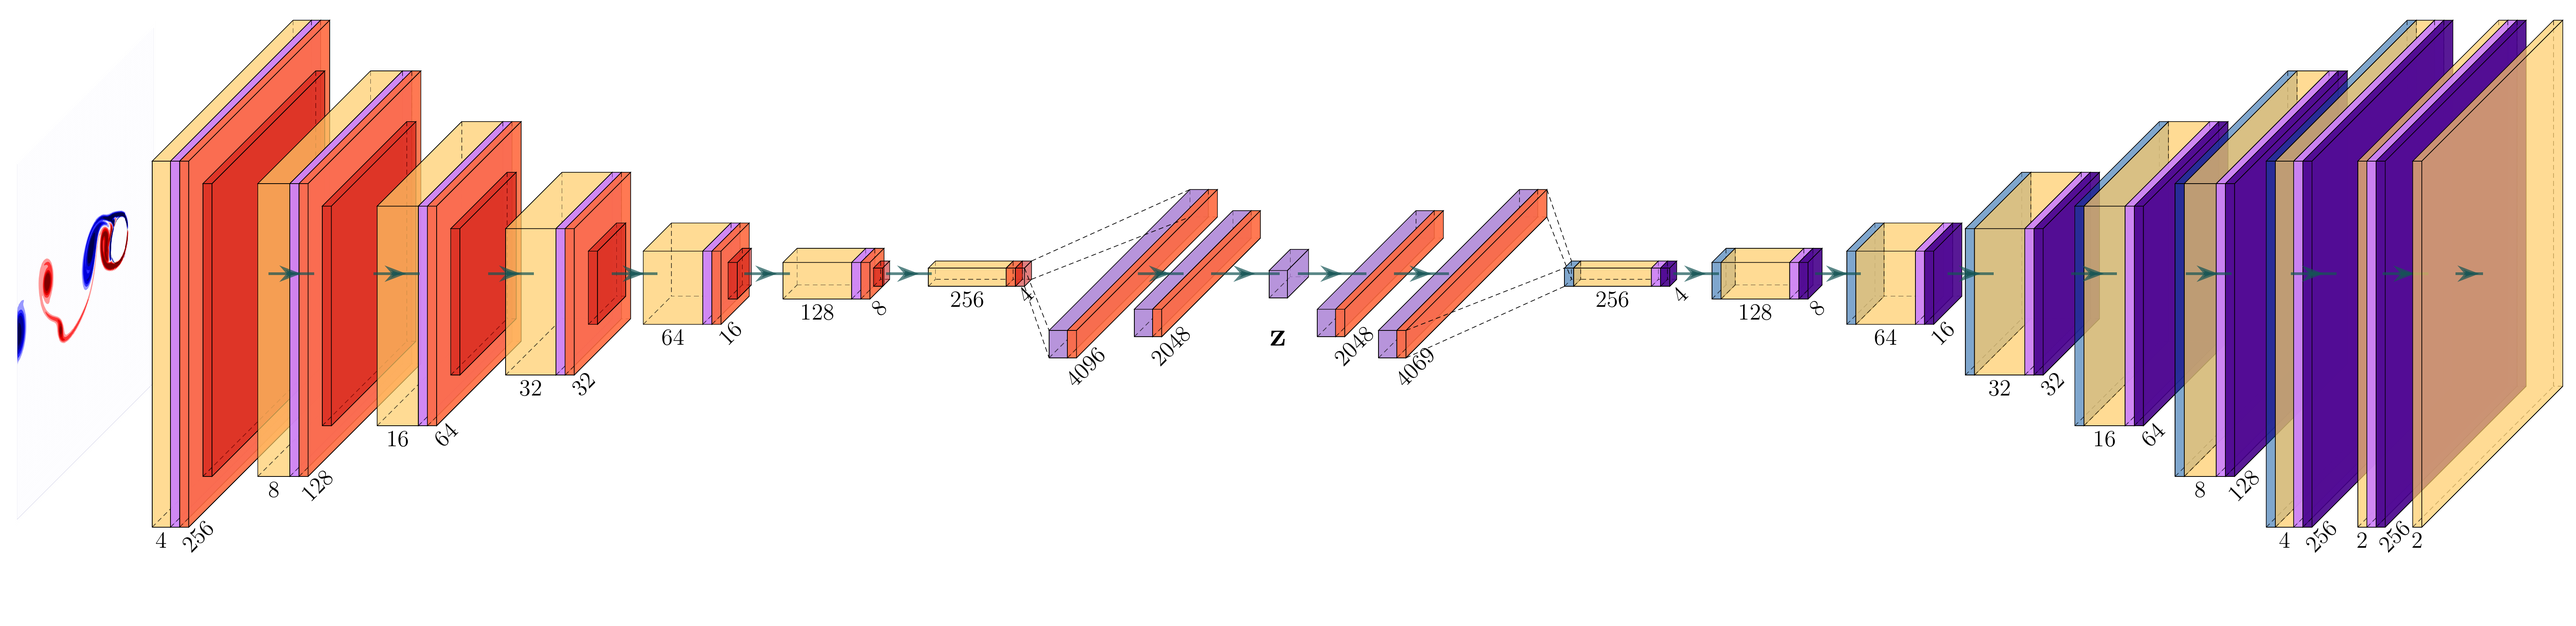
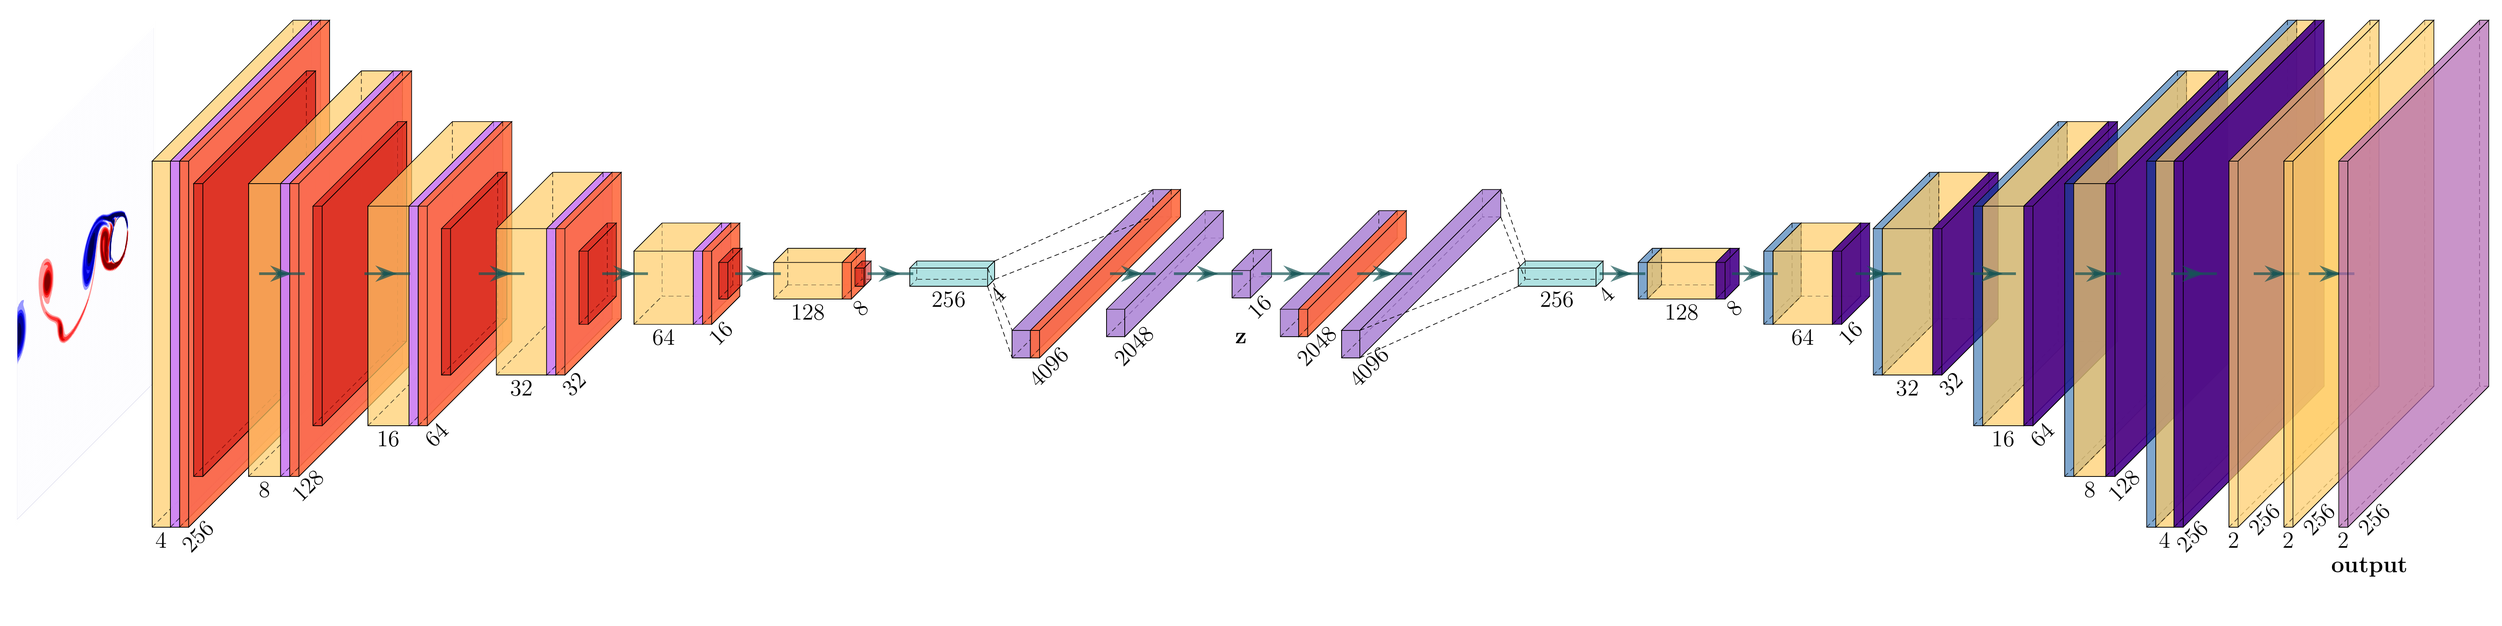
Updates from Overleaf

Changed region(s): [[0.0, 0.0309, 0.9957, 0.8663], [0.9334, 0.8973, 0.9646, 0.9282]]

diff --git a/mainmatter/3. Methodology.tex b/mainmatter/3. Methodology.tex
@@ -280,9 +280,9 @@ Since $\boldsymbol{\mu_0}$ is unity in the fluid and zero inside the solid, its 
 \section{Autoencoder}
 \label{sect: AE}
 
-To harness the Neural ODE's predictive capabilities, we need a way to reduce the dimensionality of our dynamical system. This is the role the autoencoder encompasses: it provides a way to produce a compact, non-linear representation of the instantaneous flow state on which the latent dynamics can subsequently be learned. A convolutional Autoencoder is well-suited to this task, as its filters are designed to extract local spatial features from grid-structured fields, while the implementation of non-linear activation functions allows it to represent the flow states on a curved low-dimensional surface. 
+To harness the Neural ODE's predictive capabilities, we need a way to reduce the dimensionality of our dynamical system. This is the role the autoencoder encompasses: it provides a way to produce a compact, non-linear representation of the instantaneous flow state on which the latent dynamics can subsequently be learned. A convolutional Autoencoder is well-suited to this task, as its filters are designed to extract local spatial features from grid-structured fields, while the implementation of non-linear activation functions allows it to represent the flow states on a curved low-dimensional manifold. 
 
-The autoencoder learns an efficient reduced-order representation of the instantaneous full-order flow state. The AE consists of two parts, namely an encoder and a decoder. The encoder $\varphi_\theta: \mathbb{R}^{N_x \times N_y \times C_{in}} \to \mathbb{R}^{N_z}$, maps the instantaneous full-order augmented input to a latent state vector $\mathbf{z} = \varphi_\theta(\mathbf{x}_\text{in})$, with small dimensions such that $N_z \ll N_x N_y C_\text{in}$. The decoder $\psi_\theta : \mathbb{R}^d \to \mathbb{R}^{N_x \times N_y \times N_u}$ then maps this latent state vector back to physical space $\hat{\mathbf{u}} = \psi_\theta(\mathbf{z})$ with the following goal.
+The autoencoder learns an efficient reduced-order representation of the instantaneous full-order flow state. The AE consists of two parts, namely an encoder and a decoder. The encoder $\varphi_\theta: \mathbb{R}^{N_x \times N_y \times C_{in}} \to \mathbb{R}^{N_z}$, maps the instantaneous full-order augmented input to a latent state vector $\mathbf{z} = \varphi_\theta(\mathbf{x}_\text{in})$, with small dimensions such that $N_z \ll N_x N_y C_\text{in}$. The decoder $\psi_\theta : \mathbb{R}^z \to \mathbb{R}^{N_x \times N_y \times N_u}$ then maps this latent state vector back to physical space $\hat{\mathbf{u}} = \psi_\theta(\mathbf{z})$ with the following goal.
 
 
 \begin{equation}\label{eq: AE_goal}
@@ -292,32 +292,180 @@ The autoencoder learns an efficient reduced-order representation of the instanta
 \end{equation}
 
 
-\begin{figure}[H]
-    \centering
-    \includegraphics[width=\linewidth]{figures/Methodology/autoencoder.png}
-    \caption{Schematic view of the CNN-AE architecture. The colour coding for each layer is:
-  2D-convolution: \colorbox{\ConvColor}{\phantom{x}},
-  Batch normalization: \colorbox{\BnColor}{\phantom{x}}
-  ReLU activation: \colorbox{\ReluColor}{\phantom{x}},
-  max pooling: \colorbox{\PoolColor}{\phantom{x}},
-  fully-connected layer: \colorbox{\FcColor}{\phantom{x}},
-  GELU activation: \colorbox{\GeluColor}{\phantom{x}},
-  upsampling: \colorbox{\UnpoolColor}{\phantom{x}}} 
-    \label{fig: AE}
-\end{figure}
-
 % Encoding 256×256×4 flow fields to a 16-dimensional latent space.
 
 \subsection{Architecture}
 \label{sect: AEarch}
 
-% Convolutional encoder: n_conv=6 layers, C_base=8 starting channels, pool_kernel=2 (halving spatial resolution each layer).
-% Dense bottleneck: n_dense=2 layers, latent_dim=16.
-% Symmetric decoder mirrors the encoder.
-% Include a table or diagram of layer sizes and parameter counts.
+The encoder and decoder are constructed parametrically from a small set of hyperparameters: the number of convolutional blocks $n_\text{conv}$, the number of dense layers $n_\text{dense}$, the base channel count $C_\text{base}$, the convolution kernel size $k$, the pooling kernel size $p$, and the latent dimension $N_z$. Which are all summarised in Table~\ref{tab: ae_hyperparameters}.
+
+\begin{table}[H]
+    \centering
+    \begin{tabular}{@{}llc@{}}
+        \toprule
+        Symbol & Description  \\
+        \midrule
+        $n_\text{conv}$    & Number of convolutional blocks per encoder/decoder    \\
+        $n_\text{dense}$   & Number of fully-connected layers per encoder/decoder  \\
+        $C_\text{base}$    & Base channel count (first encoder block)              \\
+        $k$                & Convolution kernel size                               \\
+        $p$                & Pooling/upsampling kernel size                        \\
+        $s$                & Convolution stride                                    \\
+        $N_z$              & Latent dimension                                      \\
+        \bottomrule
+    \end{tabular}
+    \caption{Governing hyperparameters for parametric autoencoder construction}
+    \label{tab: ae_hyperparameters}
+\end{table}
+
+
+An illustrative overview of the autoencoder architecture with these hyperparameters is shown in Figure~\ref{fig: AE}, which shows how the encoder, dense bottleneck, and decoder connect to form the full compression-decompression pipeline. The following subsections will discuss the architecture of these components individually. 
+
+
+\begin{figure}[H]
+    \centering
+    \includegraphics[width=\linewidth]{figures/Methodology/autoencoder.png}
+    \caption{Schematic view of the CNN-AE architecture with $n_\text{conv}=6$, $n_\text{dense}=2$, $C_\text{base}=8$, $k=3$, $p=2$, $s=1$, $N_z=16$ and $C_\text{in}=4$. The colour coding for each layer is:
+  2D-convolution: \colorbox{\ConvColor}{\phantom{x}},
+  Batch normalization: \colorbox{\BnColor}{\phantom{x}},
+  ReLU activation: \colorbox{\ReluColor}{\phantom{x}},
+  max pooling: \colorbox{\PoolColor}{\phantom{x}},
+  fully-connected layer: \colorbox{\FcColor}{\phantom{x}},
+  GELU activation: \colorbox{\GeluColor}{\phantom{x}},
+  compressed feature map:~\colorbox{\FeatColor}{\phantom{x}},
+  upsampling: \colorbox{\UnpoolColor}{\phantom{x}}}
+    \label{fig: AE}
+\end{figure}
+
+\subsubsection{Encoder}
+
+The encoder consists of $n_\text{conv}$ stacked compression blocks, followed by a sequence of $n_\text{dense}$ fully connected layers that project the flattened feature maps onto the latent vector $\mathbf{z} \in \mathbb{R}^{N_z}$. Each compression block applies, in order, a 2D convolution with kernel size $k$ and stride $s$, a batch-normalisation layer, a ReLU activation, and a $p \times p$ max-pooling operation. Same-padding is used in every convolution so that spatial resolution is reduced only through the pooling step. The convolution extracts local spatial features from the instantaneous flow state, and batch normalisation stabilises the distribution of layer inputs across a mini-batch. Batch normalisation stabilises training by smoothing the loss landscape, scaling and shifting the layer inputs based on trainable parameters to preserve model expressivity \cite{Santurkar2019}, allowing larger learning rates and reducing sensitivity to weight initialisation. ReLU introduces the non-linearity to represent the flow states on a low-dimensional latent space. 
+
+\begin{figure}[h]
+    \centering
+    \includegraphics[width=\linewidth]{figures/Methodology/encoder.png}
+    \caption{Example encoder architecture with $n_\text{conv}=6$, $p=2$, $k=3$, $C_\text{in}=4$ and $C_\text{base}=8$. The colour coding for each layer is:
+  2D-convolution:~\colorbox{\ConvColor}{\phantom{x}},
+  Batch normalization:~\colorbox{\BnColor}{\phantom{x}},
+  ReLU activation:~\colorbox{\ReluColor}{\phantom{x}},
+  max pooling:~\colorbox{\PoolColor}{\phantom{x}}} \&
+  compressed feature map:~\colorbox{\FeatColor}{\phantom{x}}
+    \label{fig: encoder}
+\end{figure}
+
+The encoder achieves its compression by doubling the channel count after each block and halving the spatial resolution using the maxpool operation, shown mathematically in \ref{eq: ae_channels} \& \ref{eq: ae_spatial}. This means that at each convolutional step, the number of feature maps is doubled to extract more information from the turbulent flow snapshot, while at each downsampling step, the dimension is reduced to allow the next layer to combine the identified flow features into a new feature map. This allows the extraction of larger and more complex features for progressively deeper convolutional networks from simple non-linear combinations of the previous ones \cite{Eivazi2022}.
+
+\begin{align}
+    C_i &= C_\text{base}\, 2^{\,i-1}, & i &= 1, \dots, n_\text{conv}, 
+    \label{eq: ae_channels} \\
+    H_i &= N_x / p^{\,i}, \qquad W_i = N_y / p^{\,i}, & i &= 1, \dots, n_\text{conv}.
+    \label{eq: ae_spatial}
+\end{align}
+
+ These deeper feature maps, therefore, encode larger-scale flow structures, such as the periodic wake pattern, while the shallow maps retain local features such as shear layers and boundary-layer gradients. The final compression block omits the batch normalisation step to preserve the activation magnitudes that feed into the dense bottleneck. An example schematic of an encoder is shown in Figure~\ref{fig: encoder}, showing how the reduction in spatial size is achieved while increasing the number of channels.
+
+
+\subsubsection{Dense layers}
+
+After the final compression block, the feature map of dimensions $H_{n_\text{conv}} \times W_{n_\text{conv}} \times C_{n_\text{conv}}$ is flattened and passed through a sequence of $n_\text{dense}$ fully connected layers. Each successive layer halves the number of nodes, with the last layer projecting onto the $N_z$-dimensional latent vector $\mathbf{z} = \varphi_\theta(\mathbf{x}_\text{in})$ shown in Figure~\ref{fig: dense}.
+
+\begin{figure}[H]
+    \centering
+    \includegraphics[width=\linewidth]{figures/Methodology/latent.png}
+    \caption{Example of the dense compression/decompression with $n_\text{dense}=2$ and a latent size of 16. The colour coding for each layer is: ReLU activation: \colorbox{\ReluColor}{\phantom{x}},
+    fully-connected~layer: \colorbox{\FcColor}{\phantom{x}} \&
+    compressed feature map:~\colorbox{\FeatColor}{\phantom{x}}}
+    \label{fig: dense}
+\end{figure}
+
+The dense bottleneck performs the bulk of the dimensionality reduction: the convolutional blocks reorganise the input into a compact representation with a large number of channels, and the dense layers then learn a non-linear projection from this representation to the low-dimensional space of the latent state. No activation function is applied to the final dense layer, so that the latent vector $\mathbf{z}$ is unconstrained in $\mathbb{R}^{N_z}$ rather than being constrained by an activation function. This ensures that the Neural ODE operates on the same unconstrained domain as the encoder. 
+
+The latter half of the dense bottleneck mirrors the first half, projecting $\mathbf{z}$ back to the same dimensions as the last dense layer of the dense encoder. After this, it doubles the number of nodes at each successive layer until the original flattened feature map size $H_{n_\text{conv}} \cdot W_{n_\text{conv}} \cdot C_{n_\text{conv}}$ is recovered, with ReLU activations between layers. The resulting vector is then reshaped into a feature map of dimensions $H_{n_\text{conv}} \times W_{n_\text{conv}} \times C_{n_\text{conv}}$, serving as the starting point for the decompression blocks.
+
+\subsubsection{Decoder}
+
+The decoder $\psi_\theta$ reverses the operation done by the encoder by passing the feature map at the end of the dense bottleneck and passing it through $n_\text{conv}$ decompression blocks, each of which consists of a bilinear upsampling by a factor of $p$, a 2D convolution with kernel size $k$ and stride $s$, and a GELU activation. 
+
+\begin{figure}[H]
+    \centering
+    \begin{tikzpicture}
+        \begin{axis}[
+            name=relu,
+            width=0.45\linewidth,
+            height=0.4\linewidth,
+            xmin=-4, xmax=4,
+            ymin=-1, ymax=4,
+            axis lines=middle,
+            xlabel={$x$},
+            ylabel={$\sigma(x)$},
+            xlabel style={at={(axis description cs:1.0,0.25)}, anchor=west},
+            ylabel style={at={(axis description cs:0.5,1.0)}, anchor=north west},
+            xtick={-4,-2,2,4},
+            ytick={2,4},
+            samples=200,
+            domain=-4:4,
+            title={ReLU},
+            grid=major,
+            grid style={dashed, gray!30},
+        ]
+            \addplot[blue, thick] {max(0,x)};
+        \end{axis}
+
+        \begin{axis}[
+            at={(relu.east)}, anchor=west, xshift=1.2cm,
+            width=0.45\linewidth,
+            height=0.4\linewidth,
+            xmin=-4, xmax=4,
+            ymin=-1, ymax=4,
+            axis lines=middle,
+            xlabel={$x$},
+            ylabel={$\sigma(x)$},
+            xlabel style={at={(axis description cs:1.0,0.25)}, anchor=west},
+            ylabel style={at={(axis description cs:0.5,1.0)}, anchor=north west},
+            xtick={-4,-2,2,4},
+            ytick={2,4},
+            samples=200,
+            domain=-4:4,
+            title={GELU},
+            grid=major,
+            grid style={dashed, gray!30},
+        ]
+            \addplot[red, thick] {0.5*x*(1 + tanh(sqrt(2/pi)*(x + 0.044715*x^3)))};
+        \end{axis}
+    \end{tikzpicture}
+    \caption{Comparison of the ReLU and GELU activation functions. ReLU zeroes out all negative inputs, while GELU smoothly gates negative inputs near zero and asymptotes to the identity for large positive inputs.}
+    \label{fig: activations}
+\end{figure}
+
+The upsampling step reverses the spatial compression introduced by the encoder's pooling operation, aiming to restore the latent vector to its full physical dimensions. The subsequent convolution learns a smooth refinement of the upsampled feature map. In contrast to the encoder's ReLU activation function, the decoder uses GELU activation because the reconstructed velocity field contains both positive and negative values, and ReLU's hard zero clipping would restrict the reconstruction of the negative-velocity regions of the wake. Where GELU allows the decompression blocks to produce negative variables, such that periodic flow features can be properly reconstructed, Figure~\ref{fig: activations} shows a graphic comparison of these two activation functions. 
+
+\begin{align}
+    C_i &= C_\text{base}\, 2^{\,n_\text{conv}-i}, & i &= 1, \dots, n_\text{conv},
+    \label{eq: ae_dec_channels} \\
+    H_i &= N_x \cdot p^{\,i-n_\text{conv}}, \qquad W_i = N_y \cdot p^{\,i-n_\text{conv}}, & i &= 1, \dots, n_\text{conv}.
+    \label{eq: ae_dec_spatial}
+\end{align}
+
+In the decoder, the decompression blocks halve the channel count while doubling the spatial dimension in a symmetrical fashion to the encoders' compression path, shown in \ref{eq: ae_dec_channels} \& \ref{eq: ae_dec_spatial}. The final decompression block is followed by two additional convolutional operations, seen on the right in Figure~\ref{fig: decoder}. The first of these applies a $k \times k$ convolution that maps the last decoder channel count, which is the same as the input channel count in the encoder $C_\text{in}$, to $N_u$, so that they match the dimensions of the target velocity field. The second layer applies another $k \times k$ convolution with $N_u \to N_u$ channels and acts as a learned smoothing layer, which aims to suppress checkerboarding \todo{add source on the checkerboarding} artefacts that can be produced by repeated bilinear upsampling. Both of these last layers have linear activation functions, so the reconstructed velocity field is a linear combination of the last feature map. 
+
+
+\begin{figure}[H]
+    \centering
+    \includegraphics[width=\linewidth]{figures/Methodology/decoder.png}
+    \caption{Example decoder architecture with $n_\text{conv}=6$, $p=2$, $k=3$, $C_\text{in}=4$ and $C_\text{base}=8$. \\ The colour coding for each layer is:
+      upsampling: \colorbox{\UnpoolColor}{\phantom{x}},
+      2D-convolution:~\colorbox{\ConvColor}{\phantom{x}},
+      GELU activation: \colorbox{\GeluColor}{\phantom{x}} \& 
+      compressed feature map:~\colorbox{\FeatColor}{\phantom{x}}}
+    \label{fig: decoder}
+\end{figure}
+
+Batch normalisation is not included in the decoder, because the goal of the decoder is to reconstruct a specific physical field with known statistics (like divergence, kinetic energy or mean velocity), and it thus should not regularise the intermediate feature maps as it would interfere with the correct reconstruction of the learned flow states. 
 
 \subsection{Loss Function}
 \label{sect: AEloss}
+
+
 
 % Reconstruction loss: L1 / L2 / Charbonnier (configurable via :loss symbol).
 % Physics regularizers: divergence loss (λ_div = 1000), curl loss (λ_curl = 100), strain loss (λ_strain).

diff --git a/report.tex b/report.tex
@@ -10,7 +10,9 @@
 \usepackage{wrapfig}
 \usepackage{tcolorbox}
 \usepackage{nicefrac}
+\usepackage{pgfplots}
 \usepackage{lipsum}
+\usepackage[ruled,linesnumbered,vlined]{algorithm2e}
 
 \setcounter{tocdepth}{1}
 \setlist{itemsep=-2pt} % Reducing white space in lists slightly
@@ -20,7 +22,7 @@
 \def\ConvColor{rgb:yellow,5;red,2.5;white,5}
 \def\ConvReluColor{rgb:yellow,5;red,5;white,5}
 \def\PoolColor{rgb:red,1;black,0.3}
-\def\UnpoolColor{rgb:blue,2;green,1;black,0.3}
+\def\UnpoolColor{rgb:blue,2;green,1;black,0.3; white,3}
 \def\FcColor{rgb:blue,5;red,2.5;white,5}
 \def\FcReluColor{rgb:blue,5;red,5;white,4}
 \def\SoftmaxColor{rgb:magenta,5;black,7}   
@@ -28,6 +30,11 @@
 \def\BnColor{rgb:magenta,3;blue,2;white,5}
 \def\ReluColor{rgb:red,5;orange,4;white,3}
 \def\GeluColor{rgb:green,5;cyan,3;white,3}
+\def\FeatColor{rgb:teal,3;cyan,1;white,5}
+
+% \usepackage[ruled,linesnumbered,vlined]{algorithm2e}
+\usepackage{amsmath,amssymb}
+
 %% ----------------------------------------------------------------------
 %%    Begin of document + Frontmatter (Roman page numbering)
 %% ----------------------------------------------------------------------
